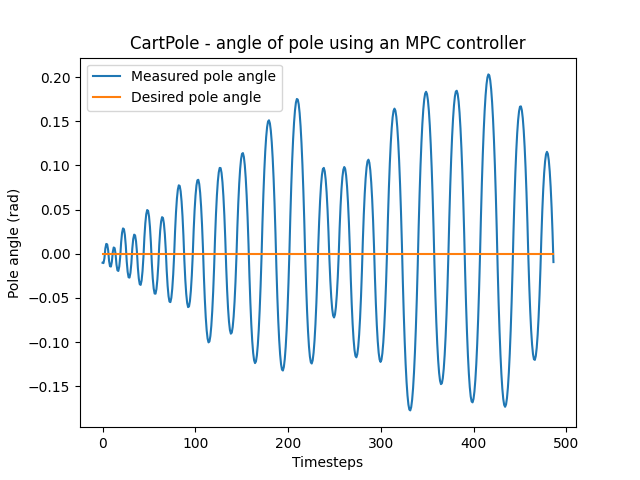
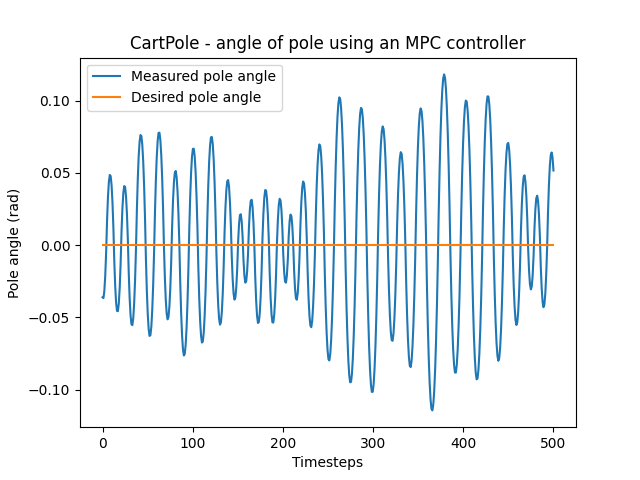
noticed an error in calculating state output matrix

diff --git a/main.py b/main.py
@@ -17,10 +17,12 @@ def initStateAndControlMatrices():
 
 def computeCost(U, A, B, observation, target_state):
     cost = 0  # Init cost to 0
-    for i in range(N):
+    C = np.zeros((10,4))
+    C[0] = observation
+    for i in range(N-1):
         action = U[i].reshape(1,-1)
-        C = (A @ observation) + np.hstack(B @ action)  # Output matrix C
-        state_error = C - target_state  # Difference in state error
+        C[i+1] = (A @ C[i]) + np.hstack(B @ action)  # Output matrix C
+        state_error = C[i+1] - target_state  # Difference in state error
         Jz = state_error.T @ Q @ state_error  # State error weighting
         Ju = action.T @ R @ action  # Control error weighting
         cost += Jz + Ju  # Total cost to minimize
@@ -29,11 +31,11 @@ def computeCost(U, A, B, observation, target_state):
 
 def initCostMatrices():
     Q = np.eye(4)  # Penalize state deviation
-    Q[0,0] = 1500 # Cart position
-    Q[1,1] = 0 # Cart velocity
+    Q[0,0] = 1000 # Cart position
+    Q[1,1] = 10 # Cart velocity
     Q[2,2] = 1000 # Pole Angle
-    Q[3,3] = 1000 # Pole Angular Velocity
-    R = np.array([[0.1]])  # Penalize large control inputs
+    Q[3,3] = 12 # Pole Angular Velocity
+    R = np.array([[0]])  # Penalize large control inputs
     return Q,R
 
 # Uncomment if you want to save the video
@@ -79,7 +81,7 @@ plt.ylabel("Pole angle (rad)")
 plt.xlabel("Timesteps")
 plt.legend()
 plt.title("CartPole - angle of pole using an MPC controller")
-plt.savefig("figs/pole_angle")
+plt.savefig("figs/pole_angle_no_control_weights")
 plt.show()
 
 
